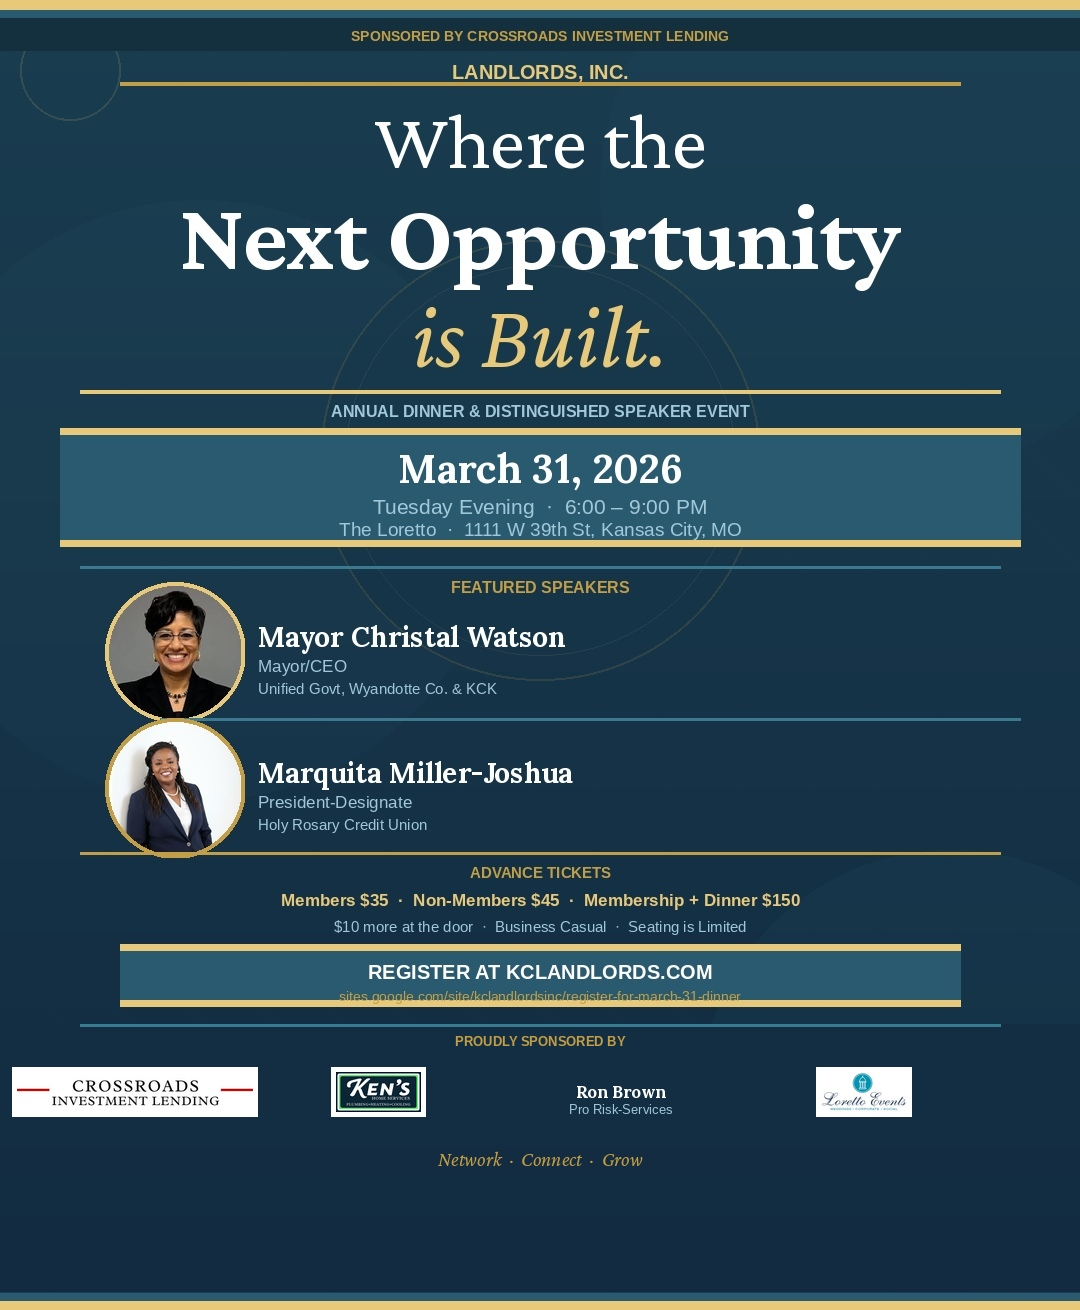
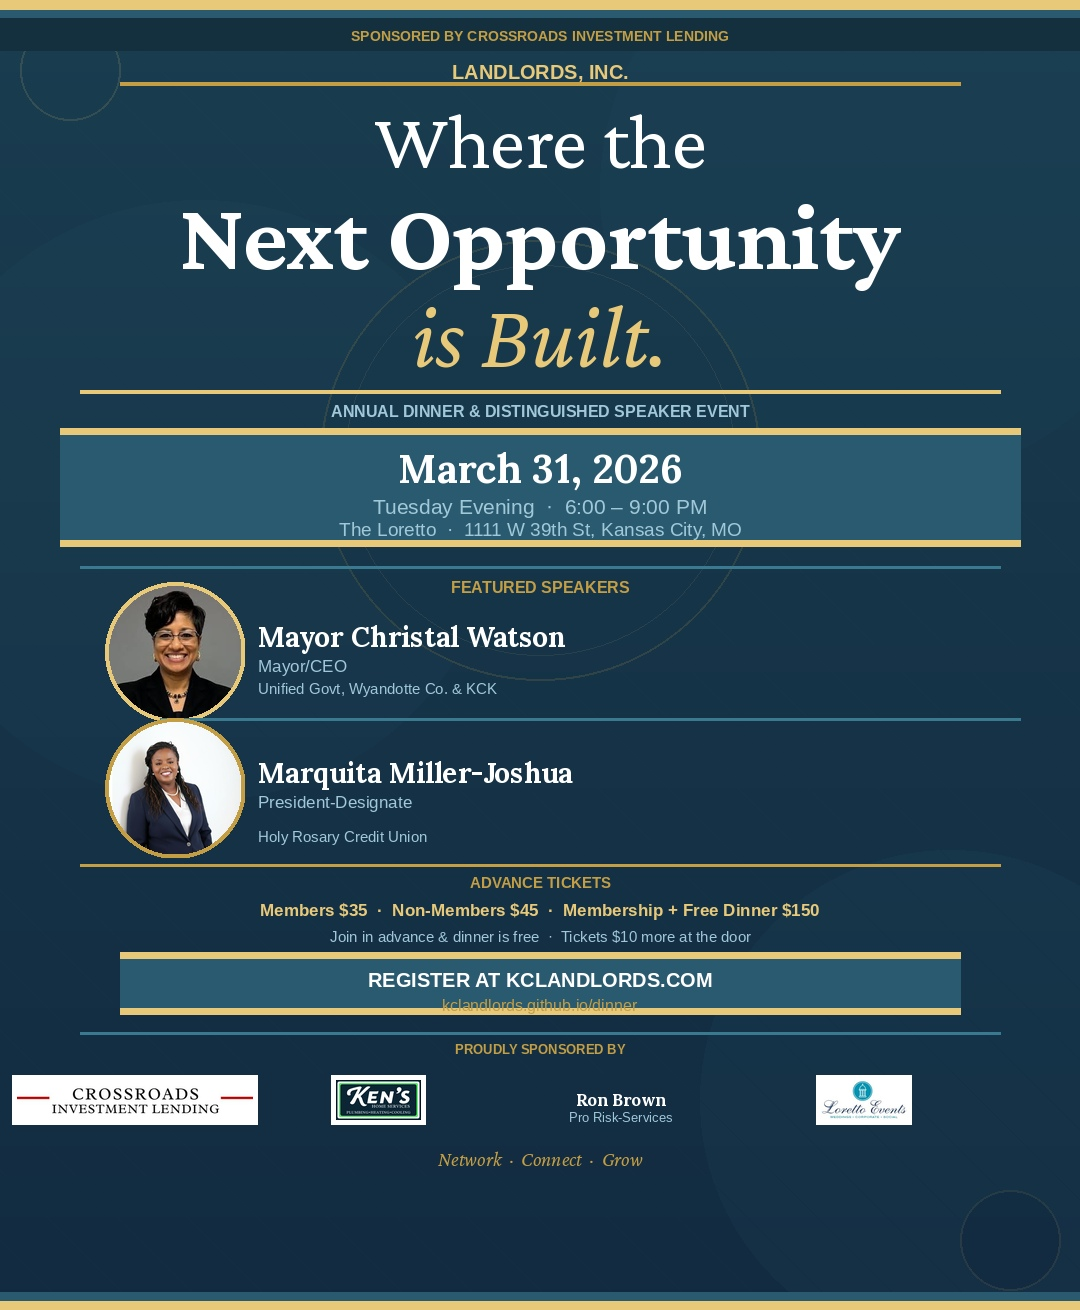
Add files via upload

Changed region(s): [[0.0, 0.6107, 0.9167, 0.8855]]

diff --git a/thankyou.html b/thankyou.html
@@ -87,7 +87,7 @@
   }
   .sponsor-card:hover { border-color:var(--gold2); transform:translateY(-2px); }
   .sponsor-card::before { content:''; position:absolute; top:0; left:0; right:0; height:2px; background:var(--gold); }
-  .sponsor-logo { height:40px; width:auto; display:block; margin:0 auto 12px; }
+  .sponsor-logo { height:40px; width:auto; display:block; margin:0 auto 12px; object-fit:contain; }
   .sponsor-name { font-size:12px; font-weight:600; color:var(--navy); margin-bottom:4px; }
   .sponsor-desc { font-size:11px; color:rgba(26,61,80,0.55); line-height:1.5; }
   .sponsor-visit { font-size:9px; font-weight:700; letter-spacing:2px; text-transform:uppercase; color:var(--gold2); margin-top:10px; display:block; }
@@ -173,7 +173,7 @@
     <div class="sponsor-grid">
 
       <a href="https://www.kclend.com" target="_blank" class="sponsor-card">
-        <img src="https://mcusercontent.com/73630736251025713a84e01c2/_thumbs/ea28dcf7-44f0-d873-c93b-cd8c5bc8a9fb.png" alt="Crossroads Investment Lending" class="sponsor-logo" style="background:#fff; padding:4px 8px; border:1px solid rgba(26,61,80,0.1);">
+        <img src="https://mcusercontent.com/73630736251025713a84e01c2/_thumbs/ea28dcf7-44f0-d873-c93b-cd8c5bc8a9fb.png" alt="Crossroads Investment Lending" class="sponsor-logo" style="background:#fff; padding:4px 8px; border:1px solid rgba(26,61,80,0.1); display:block; margin:0 auto 12px;">
         <div class="sponsor-name">Crossroads Investment Lending</div>
         <div class="sponsor-desc">Fast, trusted hard money loans — fix &amp; flip, bridge, cash-out, and DSCR.</div>
         <span class="sponsor-visit">kclend.com →</span>
@@ -187,10 +187,8 @@
       </a>
 
       <a href="https://www.prorisk-services.com" target="_blank" class="sponsor-card">
-        <div style="height:40px; display:flex; align-items:center; justify-content:center; margin-bottom:12px;">
-          <span style="font-family:'Cormorant Garamond',serif; font-size:18px; font-weight:700; color:var(--navy);">Ron Brown</span>
-        </div>
-        <div class="sponsor-name">Pro Risk-Services Insurance</div>
+        <img src="https://kclandlords.github.io/pro_risk.jpg" alt="Pro Risk-Services" class="sponsor-logo">
+        <div class="sponsor-name">Ron Brown · Pro Risk-Services Insurance</div>
         <div class="sponsor-desc">Insurance solutions for landlords and real estate investors.</div>
         <span class="sponsor-visit">prorisk-services.com →</span>
       </a>

diff --git a/dinner.html b/dinner.html
@@ -9,7 +9,7 @@
 <meta property="og:type"        content="website">
 <meta property="og:url"         content="https://kclandlords.github.io/dinner">
 <meta property="og:title"       content="Landlords, Inc. Annual Dinner — March 31, 2026">
-<meta property="og:description" content="Where the Next Opportunity is Built. Featuring Mayor Christal Watson & Marquita Miller-Joshua. The Loretto, Kansas City · 6:00–9:00 PM · Advance tickets from $35.">
+<meta property="og:description" content="Where the Next Opportunity is Built. Featuring Mayor Christal Watson & Marquita Miller-Joshua. The Loretto, Kansas City · 6:00–9:00 PM · Join before the event and your dinner ticket is free. Advance tickets from $35.">
 <meta property="og:image"       content="https://kclandlords.github.io/flyer.jpg">
 <meta property="og:image:width"  content="1080">
 <meta property="og:image:height" content="1310">
@@ -17,7 +17,7 @@
 <!-- Twitter/iMessage card -->
 <meta name="twitter:card"        content="summary_large_image">
 <meta name="twitter:title"       content="Landlords, Inc. Annual Dinner — March 31, 2026">
-<meta name="twitter:description" content="Where the Next Opportunity is Built. Featuring Mayor Christal Watson & Marquita Miller-Joshua. The Loretto, Kansas City · 6:00–9:00 PM · Advance tickets from $35.">
+<meta name="twitter:description" content="Where the Next Opportunity is Built. Featuring Mayor Christal Watson & Marquita Miller-Joshua. The Loretto, Kansas City · 6:00–9:00 PM · Join before the event and your dinner ticket is free. Advance tickets from $35.">
 <meta name="twitter:image"       content="https://kclandlords.github.io/flyer.jpg">
 
 <link href="https://fonts.googleapis.com/css2?family=Cormorant+Garamond:ital,wght@0,400;0,600;0,700;1,400;1,600&family=Montserrat:wght@400;500;600;700&display=swap" rel="stylesheet">
